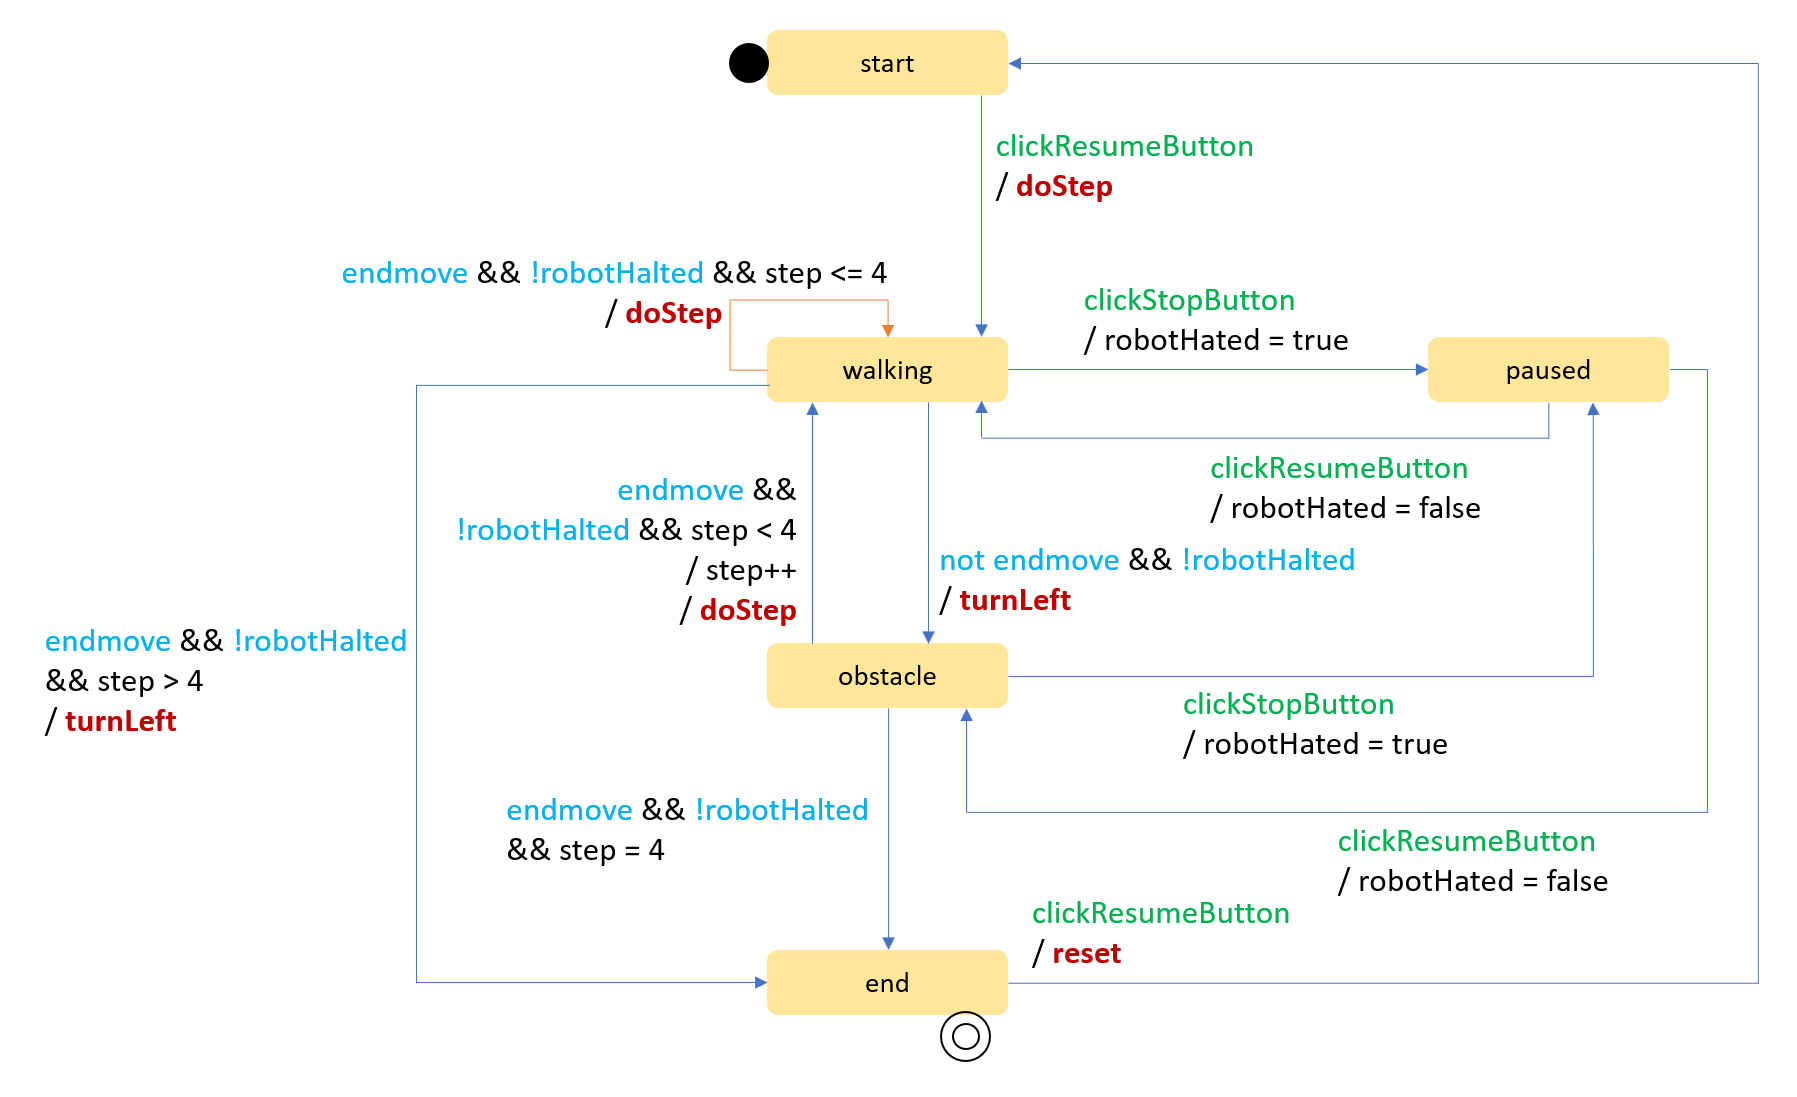
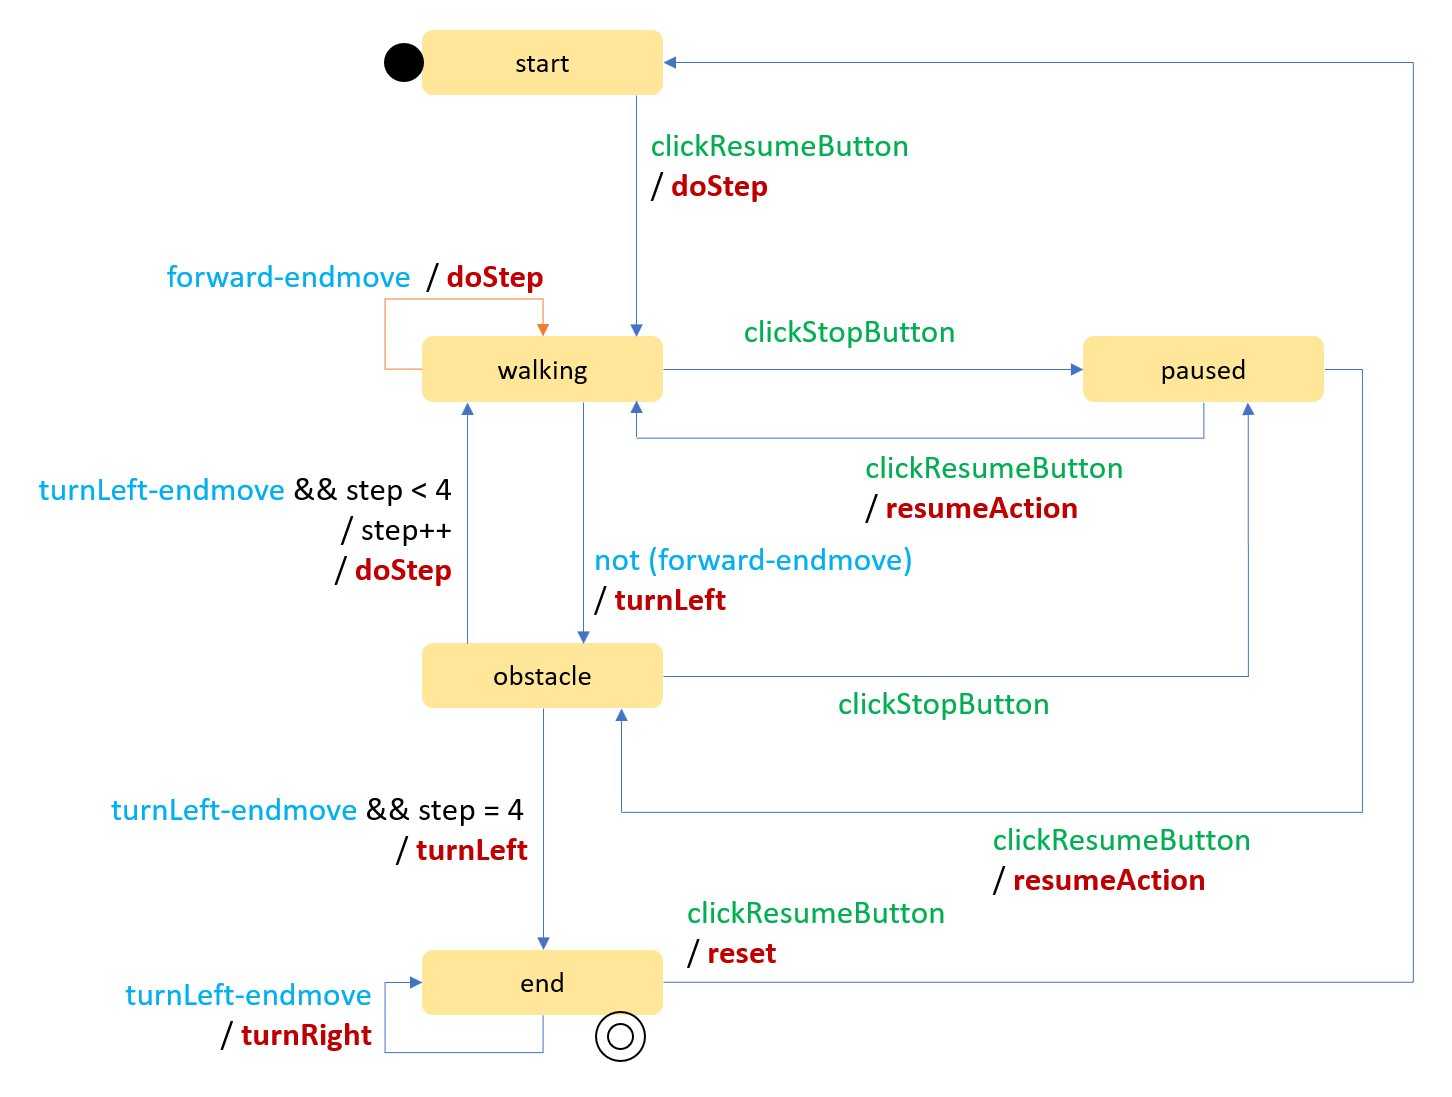
aggiornata fsm

diff --git a/iss2012_supports_resumablebw/app/src/main/java/it/unibo/robotWithActorJava/BoundaryWalkerActor.java b/iss2012_supports_resumablebw/app/src/main/java/it/unibo/robotWithActorJava/BoundaryWalkerActor.java
@@ -55,9 +55,6 @@ public class BoundaryWalkerActor extends ActorBasicJava {
             robotHalted = false;
             if(curState.equals(State.start)){
                 move ="";
-            } else{
-                curState = oldState;
-                fsm(oldMove.getString("move"), oldMove.getString("endmove"));
             }
         }
 
@@ -110,6 +107,10 @@ public class BoundaryWalkerActor extends ActorBasicJava {
             }
 
             case paused:{
+                if(move.equals("RESUME")) {
+                    curState = oldState;
+                    resumeAction();
+                }
                 System.out.println("Journey paused");
                 break;
             }
@@ -168,6 +169,9 @@ public class BoundaryWalkerActor extends ActorBasicJava {
     }
 
     //------------------------------------------------
+    protected void resumeAction(){
+        fsm(oldMove.getString("move"), oldMove.getString("endmove"));
+    }
     protected void doStep(){
         support.forward( forwardMsg);
         delay(1000); //to avoid too-rapid movement
